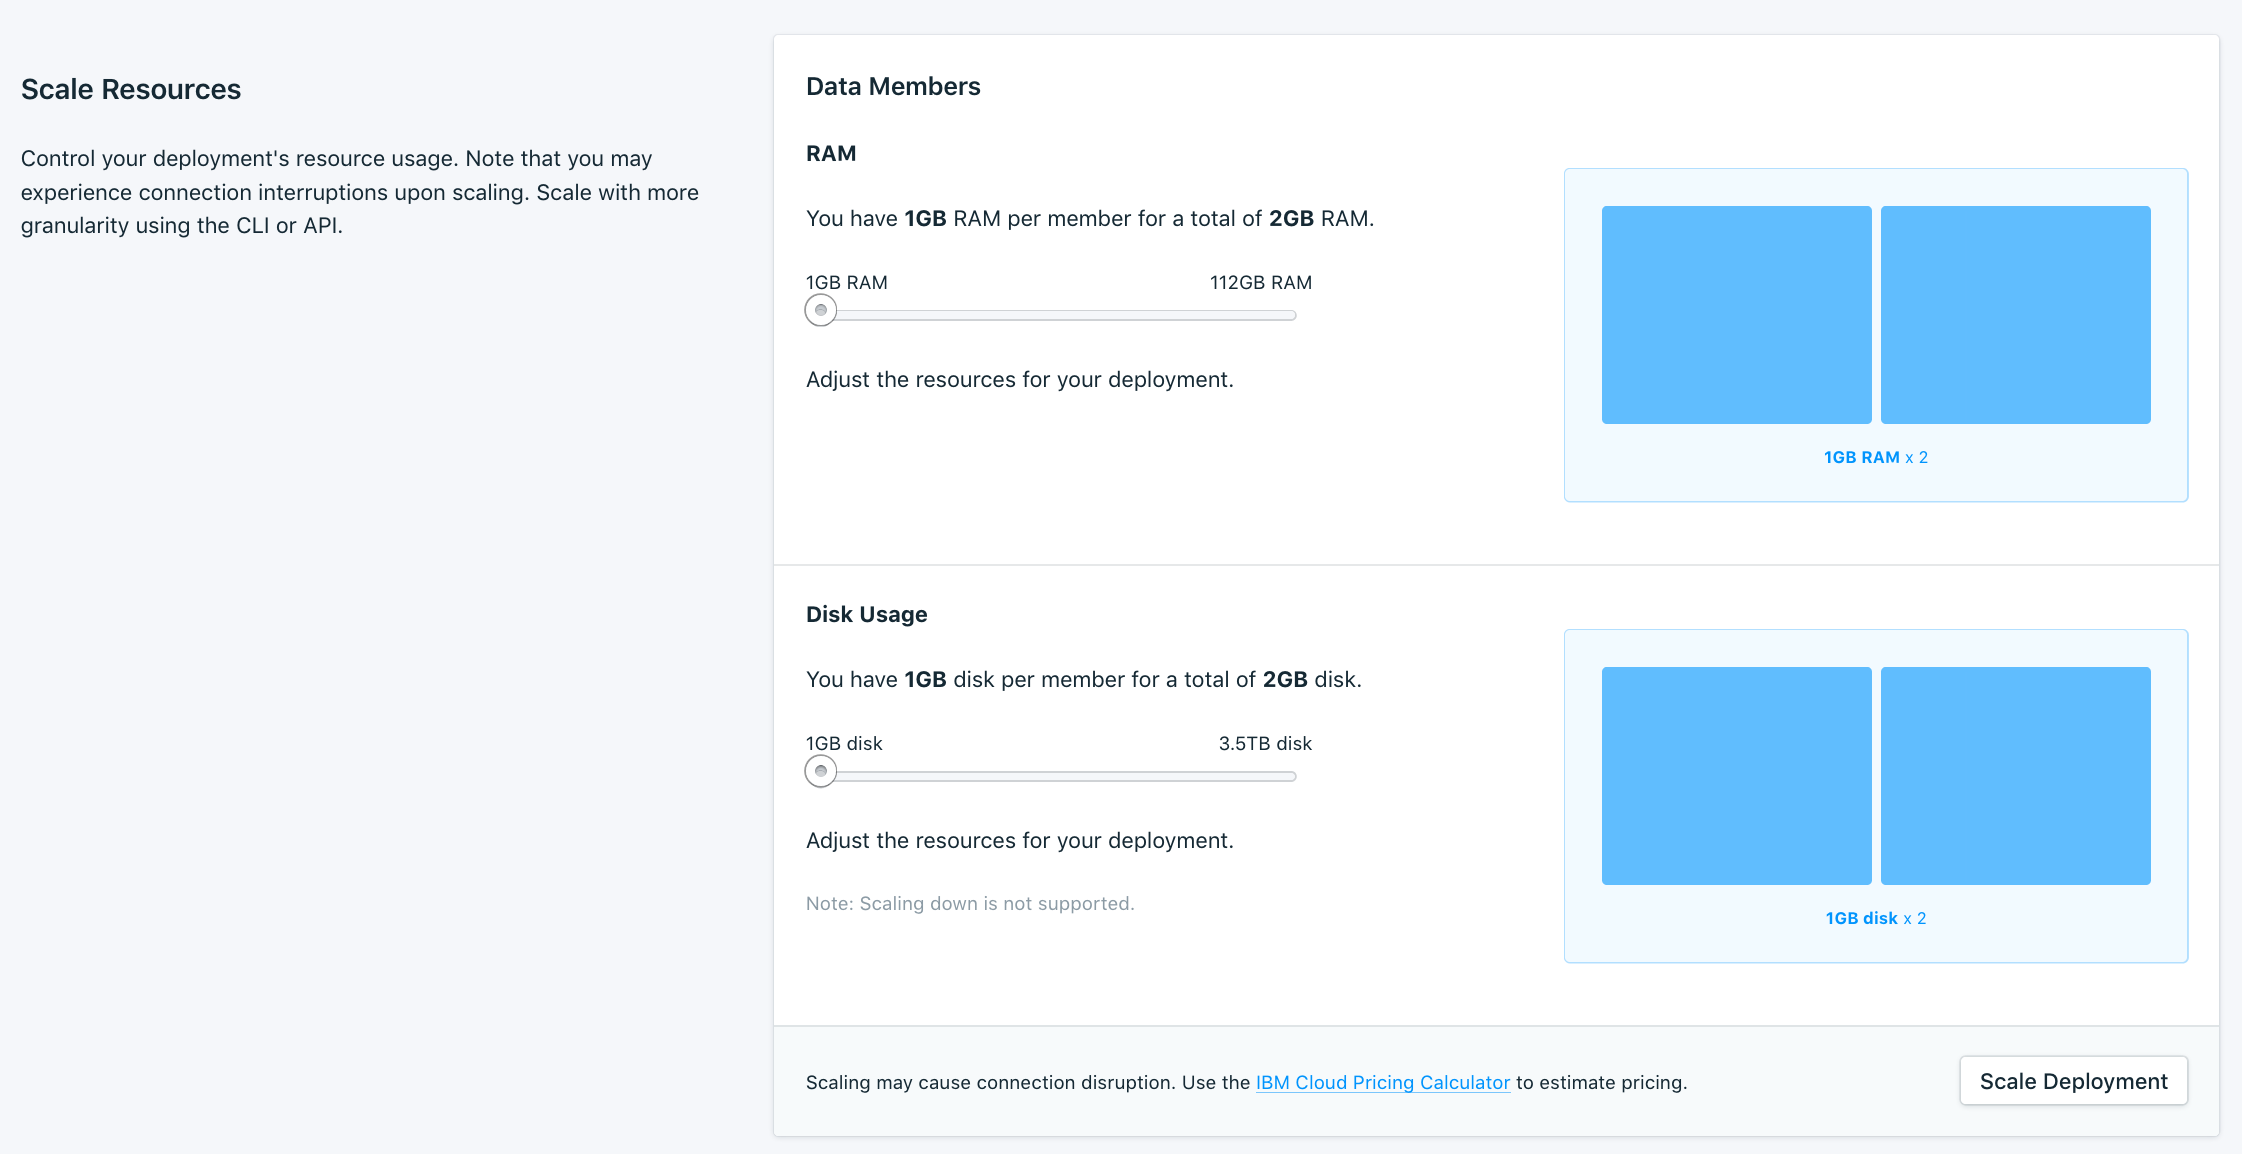
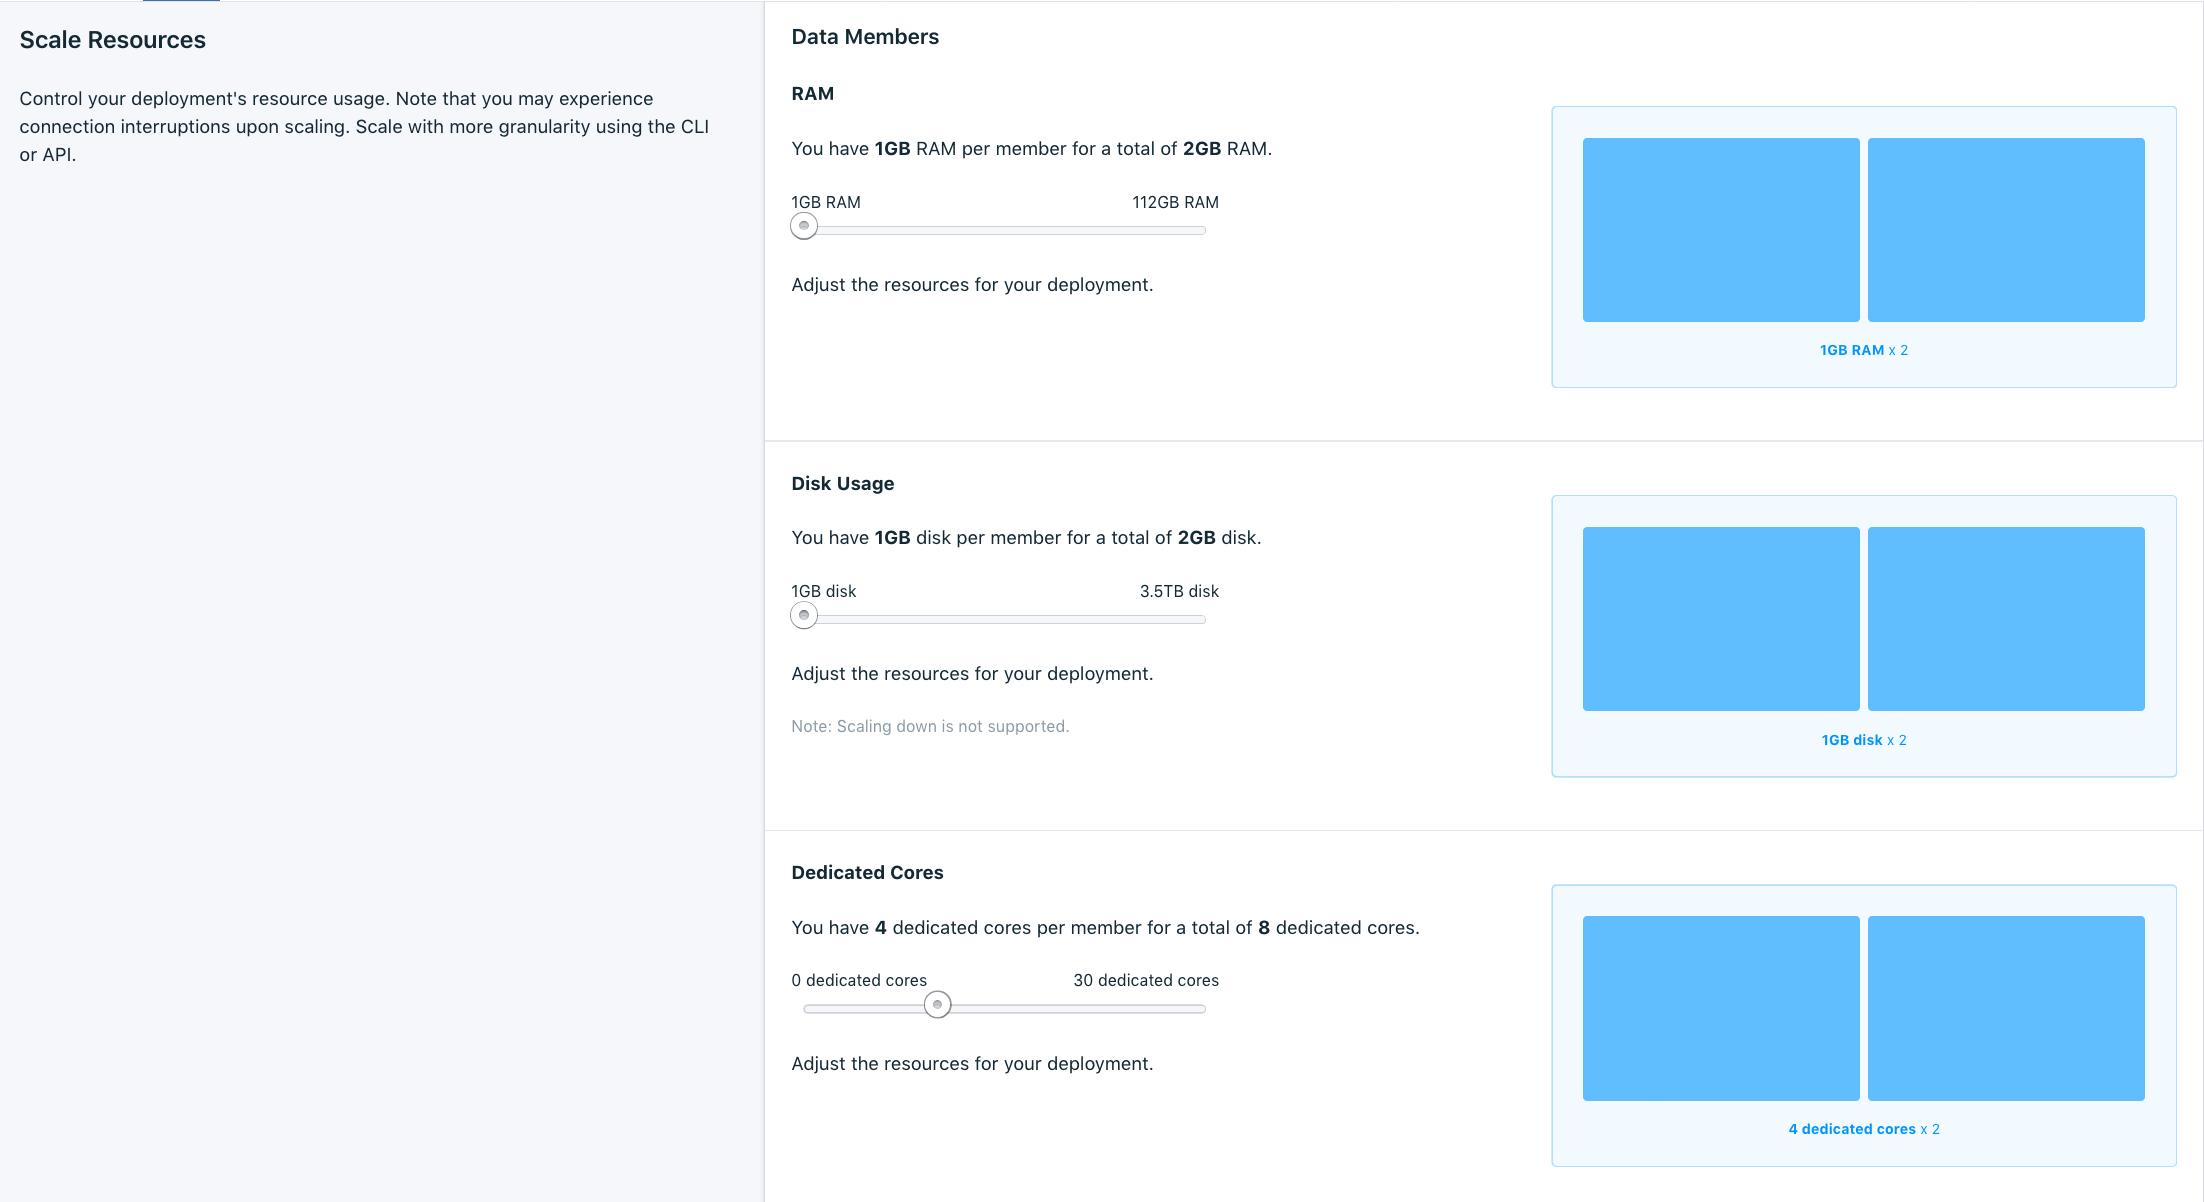
CPU Enabling/Scaling for all deployments (#41)
* initial wording for making dedicated cores more widely available

* updating scaling screenshot

* adding cli output for CPU in scaling

diff --git a/howto-resources-scaling.md b/howto-resources-scaling.md
@@ -2,7 +2,7 @@
 
 Copyright:
   years: 2019
-lastupdated: "2019-04-22"
+lastupdated: "2019-10-07"
 
 keywords: redis, databases, scaling
 
@@ -49,7 +49,10 @@ Also, your deployment is configured with `maxmemory` is set to use 80% of the no
 If you [configured Redis as a cache](/docs/services/databases-for-redis?topic=databases-for-redis-redis-cache), you can scale to the amount of memory that best fits your caching needs.
 
 **Dedicated Cores** - 
-If you provisioned your deployment with dedicated cores, you can increase the CPU allocation to the deployment. This option is not available on deployments that were not provisioned with an initial CPU allocation.
+You can enable or increase the CPU allocation to the deployment. With dedicated cores, your resource group is given a single-tenant host with a guaranteed minimum reserve of cpu shares. Your deployment is then allocated the number of CPUs you specify. The default of 0 dedicated cores uses compute resources on shared hosts.
+
+A few scaling operations can be more long running than others. Enabling dedicated cores moves your deployment to its own host and can take longer than just adding more cores. Similarly, drastically increasing RAM or Disk can take longer than smaller increases to account for provisioning more underlying hardware resources.
+{: .tip}
 
 ## Scaling in the UI
 
@@ -75,11 +78,18 @@ Count   2
 |   Step Size               256mb
 |   Adjustable              true
 |
++   CPU
+|   Allocation              2
+|   Allocation per member   1
+|   Minimum                 2
+|   Step Size               2
+|   Adjustable              true
+|
 +   Disk
 |   Allocation              2048mb
 |   Allocation per member   1024mb
 |   Minimum                 2048mb
-|   Step Size               256mb
+|   Step Size               2048mb
 |   Adjustable              true
 ```
 

diff --git a/pricing.md b/pricing.md
@@ -1,7 +1,7 @@
 ---
 copyright:
   years: 2017,2019
-lastupdated: "2019-04-30"
+lastupdated: "2019-10-07"
 
 keywords: redis, databases, pricing
 
@@ -52,7 +52,7 @@ Users also receive their total disk space purchased, per database, in free backu
 
 ## Dedicated Cores Pricing
 
-When you provision, you have the option of selecting the initial CPU allocation for your deployment. With dedicated cores, your resource group is given a single-tenant host with a guaranteed minimum reserve of cpu shares. Your deployments are then allocated the number of CPUs you specify. The cost of dedicated cores is $30 per core per month, and each member gets the selected number of cores. For example, if you provision a deployment with 3 dedicated cores per member, that is a total of 6 cores, and billed at $180 per month. 
+You have the option of selecting the CPU allocation for your deployment. With dedicated cores, your resource group is given a single-tenant host with a guaranteed minimum reserve of cpu shares. Your deployments are then allocated the number of CPUs you specify. The cost of dedicated cores is $30 per core per month, and each member gets the selected number of cores. For example, if you provision a deployment with 3 dedicated cores per member, that is a total of 6 cores, and billed at $180 per month. 
 
 Dedicated cores are an optional feature. The default `Shared CPU` setting provisions your deployment on hosts with shared compute resources and incurs no additional charge.
 
